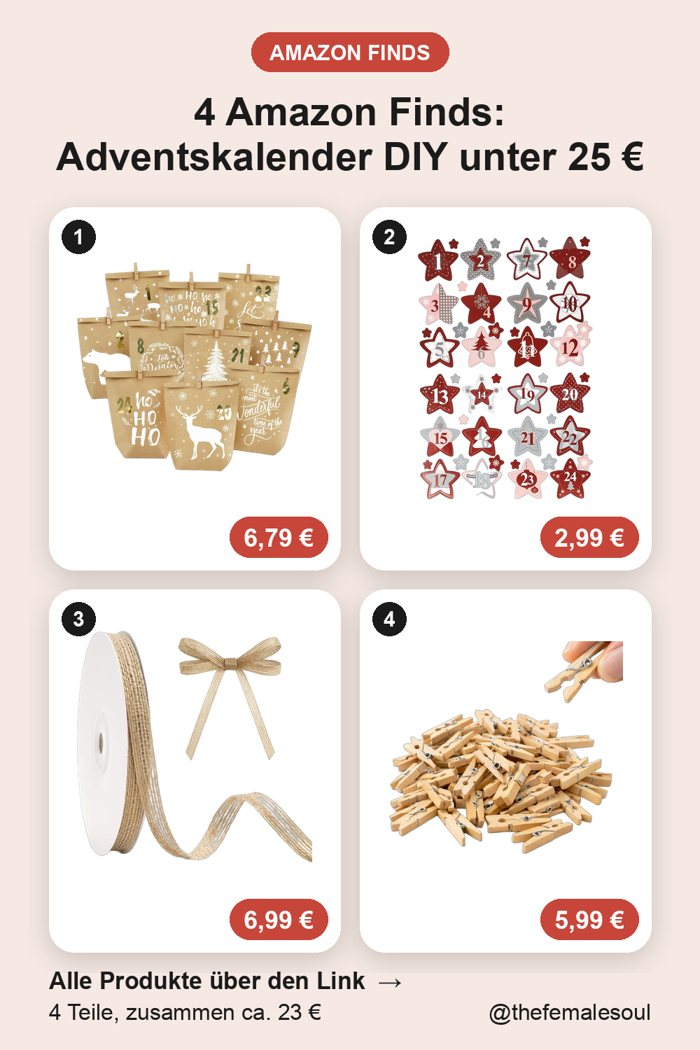
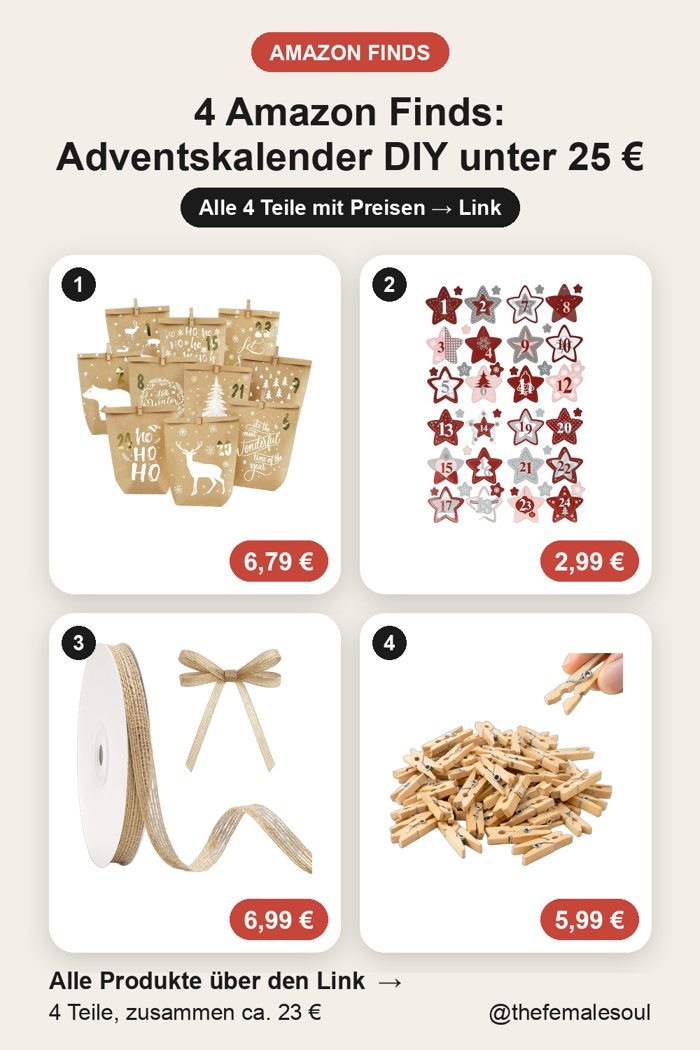
Listen 261023

Changed region(s): [[0.06, 0.1524, 0.93, 0.8533], [0.12, 0.701, 0.15, 0.7314]]

diff --git a/4-amazon-finds-adventskalender-diy-unter-25-euro.html b/4-amazon-finds-adventskalender-diy-unter-25-euro.html
@@ -1,10 +1,10 @@
 <!doctype html><html lang="de"><head><meta charset="utf-8"><meta name="viewport" content="width=device-width,initial-scale=1">
-<title>Adventskalender DIY: Bastelideen unter 25 € Amazon Finds · the femalesoul</title><meta name="description" content="Adventskalender DIY: Bastelideen unter 25 € Amazon Finds">
+<title>Adventskalender DIY: Zum Basteln unter 25 € Amazon Finds · the femalesoul</title><meta name="description" content="Adventskalender DIY: Zum Basteln unter 25 € Amazon Finds">
 <meta name="p:domain_verify" content="56e387f7f84581808b64b9bf8817f874"/>
 <meta property="og:site_name" content="the femalesoul"><meta property="og:locale" content="de_DE"><meta property="og:type" content="product">
-<meta property="og:title" content="Adventskalender DIY: Bastelideen unter 25 € Amazon Finds"><meta property="og:description" content="Adventskalender DIY: Bastelideen unter 25 € Amazon Finds"><meta property="og:url" content="https://thefemalesoul.github.io/4-amazon-finds-adventskalender-diy-unter-25-euro.html"><meta property="og:image" content="https://thefemalesoul.github.io/bilder/4-amazon-finds-adventskalender-diy-unter-25-euro.jpg">
+<meta property="og:title" content="Adventskalender DIY: Zum Basteln unter 25 € Amazon Finds"><meta property="og:description" content="Adventskalender DIY: Zum Basteln unter 25 € Amazon Finds"><meta property="og:url" content="https://thefemalesoul.github.io/4-amazon-finds-adventskalender-diy-unter-25-euro.html"><meta property="og:image" content="https://thefemalesoul.github.io/bilder/4-amazon-finds-adventskalender-diy-unter-25-euro.jpg">
 <meta property="article:author" content="Valeria Schöck"><meta name="pinterest:rich_pin" content="true">
-<meta property="product:price:amount" content="2.99"><meta property="product:price:currency" content="EUR"><meta property="product:availability" content="in stock"><meta property="og:price:amount" content="2.99"><meta property="og:price:currency" content="EUR"><script type="application/ld+json">{"@context": "https://schema.org", "@type": "ItemList", "name": "Adventskalender DIY: Bastelideen unter 25 € Amazon Finds", "url": "https://thefemalesoul.github.io/4-amazon-finds-adventskalender-diy-unter-25-euro.html", "numberOfItems": 4, "itemListElement": [{"@type": "ListItem", "position": 1, "item": {"@type": "Product", "name": "Adventskalender Tüten zum Befüllen, Weihnachtskalender Papiertüten zum Selber Ba", "image": "https://m.media-amazon.com/images/I/71hz8TgK5AL._AC_SL1500_.jpg", "offers": {"@type": "Offer", "price": "6.79", "priceCurrency": "EUR", "availability": "https://schema.org/InStock", "url": "https://www.amazon.de/dp/B09QC965M1?tag=thefemalesoul-21"}, "aggregateRating": {"@type": "AggregateRating", "ratingValue": "4.6", "reviewCount": "354"}}}, {"@type": "ListItem", "position": 2, "item": {"@type": "Product", "name": "Oblique-Unique® Adventskalender Sticker Zahlen 1–24 – Weihnachtsaufkleber rund 5", "image": "https://m.media-amazon.com/images/I/615lrg9BDzS._AC_SL1000_.jpg", "offers": {"@type": "Offer", "price": "2.99", "priceCurrency": "EUR", "availability": "https://schema.org/InStock", "url": "https://www.amazon.de/dp/B0931191NN?tag=thefemalesoul-21"}, "aggregateRating": {"@type": "AggregateRating", "ratingValue": "4.6", "reviewCount": "1177"}}}, {"@type": "ListItem", "position": 3, "item": {"@type": "Product", "name": "jijAcraft 10mm Juteband Schmal Rustikal: 18m Natur Jute Geschenkband, Burlap Vin", "image": "https://m.media-amazon.com/images/I/71W90COir5L._AC_SL1500_.jpg", "offers": {"@type": "Offer", "price": "6.99", "priceCurrency": "EUR", "availability": "https://schema.org/InStock", "url": "https://www.amazon.de/dp/B0G4T71N4Z?tag=thefemalesoul-21"}, "aggregateRating": {"@type": "AggregateRating", "ratingValue": "4.7", "reviewCount": "2909"}}}, {"@type": "ListItem", "position": 4, "item": {"@type": "Product", "name": "100 Stück Mini Wäscheklammern - Nachhaltiges Holz - Miniklammern - Kleine Holzkl", "image": "https://m.media-amazon.com/images/I/61qRiaQ9jzL._AC_SL1024_.jpg", "offers": {"@type": "Offer", "price": "5.99", "priceCurrency": "EUR", "availability": "https://schema.org/InStock", "url": "https://www.amazon.de/dp/B07ZWJSV32?tag=thefemalesoul-21"}, "aggregateRating": {"@type": "AggregateRating", "ratingValue": "4.0", "reviewCount": "2569"}}}]}</script><link href="fonts/fonts.css" rel="stylesheet">
+<meta property="product:price:amount" content="2.99"><meta property="product:price:currency" content="EUR"><meta property="product:availability" content="in stock"><meta property="og:price:amount" content="2.99"><meta property="og:price:currency" content="EUR"><script type="application/ld+json">{"@context": "https://schema.org", "@type": "ItemList", "name": "Adventskalender DIY: Zum Basteln unter 25 € Amazon Finds", "url": "https://thefemalesoul.github.io/4-amazon-finds-adventskalender-diy-unter-25-euro.html", "numberOfItems": 4, "itemListElement": [{"@type": "ListItem", "position": 1, "item": {"@type": "Product", "name": "Adventskalender Tüten zum Befüllen, Weihnachtskalender Papiertüten zum Selber Ba", "image": "https://m.media-amazon.com/images/I/71hz8TgK5AL._AC_SL1500_.jpg", "offers": {"@type": "Offer", "price": "6.79", "priceCurrency": "EUR", "availability": "https://schema.org/InStock", "url": "https://www.amazon.de/dp/B09QC965M1?tag=thefemalesoul-21"}, "aggregateRating": {"@type": "AggregateRating", "ratingValue": "4.6", "reviewCount": "354"}}}, {"@type": "ListItem", "position": 2, "item": {"@type": "Product", "name": "Oblique-Unique® Adventskalender Sticker Zahlen 1–24 – Weihnachtsaufkleber rund 5", "image": "https://m.media-amazon.com/images/I/615lrg9BDzS._AC_SL1000_.jpg", "offers": {"@type": "Offer", "price": "2.99", "priceCurrency": "EUR", "availability": "https://schema.org/InStock", "url": "https://www.amazon.de/dp/B0931191NN?tag=thefemalesoul-21"}, "aggregateRating": {"@type": "AggregateRating", "ratingValue": "4.6", "reviewCount": "1177"}}}, {"@type": "ListItem", "position": 3, "item": {"@type": "Product", "name": "jijAcraft 10mm Juteband Schmal Rustikal: 18m Natur Jute Geschenkband, Burlap Vin", "image": "https://m.media-amazon.com/images/I/71W90COir5L._AC_SL1500_.jpg", "offers": {"@type": "Offer", "price": "6.99", "priceCurrency": "EUR", "availability": "https://schema.org/InStock", "url": "https://www.amazon.de/dp/B0G4T71N4Z?tag=thefemalesoul-21"}, "aggregateRating": {"@type": "AggregateRating", "ratingValue": "4.7", "reviewCount": "2909"}}}, {"@type": "ListItem", "position": 4, "item": {"@type": "Product", "name": "100 Stück Mini Wäscheklammern - Nachhaltiges Holz - Miniklammern - Kleine Holzkl", "image": "https://m.media-amazon.com/images/I/61qRiaQ9jzL._AC_SL1024_.jpg", "offers": {"@type": "Offer", "price": "5.99", "priceCurrency": "EUR", "availability": "https://schema.org/InStock", "url": "https://www.amazon.de/dp/B07ZWJSV32?tag=thefemalesoul-21"}, "aggregateRating": {"@type": "AggregateRating", "ratingValue": "4.0", "reviewCount": "2569"}}}]}</script><link href="fonts/fonts.css" rel="stylesheet">
 <style>
 :root{--bg:#F6F1EA;--card:#FFFFFF;--ink:#221F1C;--muted:#6F675F;--akzent:#C8453A;--akzent2:#EADFD3}
 *{box-sizing:border-box}body{margin:0;background:var(--bg);color:var(--ink);font-family:'Inter',system-ui,-apple-system,sans-serif;line-height:1.55}
@@ -66,6 +66,6 @@ footer a{color:var(--muted)}
 </style></head><body><div class="wrap">
 <header><div style="display:flex;justify-content:space-between;align-items:center;flex-wrap:wrap;gap:10px"><a class="brand" href="index.html">the <span>femalesoul</span></a>
 <nav><a href="index.html">Alle Listen</a><a href="https://de.pinterest.com/Thefemalesoul/" target="_blank" rel="noopener">Pinterest</a><a href="https://www.amazon.de/shop/the.femalesoul" target="_blank" rel="noopener">Amazon-Shop</a><a href="impressum.html">Impressum</a></nav></div></header>
-<section class="hero2"><div><span class="label">AMAZON FINDS</span><h1>4 Amazon Finds: Adventskalender DIY unter 25 €</h1><p class="intro">Mit diesen vier Teilen bastelst du deinen Adventskalender DIY für zusammen 22,76 €, und die Füllung suchst du danach aus, was deine Kinder oder dein Partner mögen.</p><div class="meta"><span><b>4 Produkte</b></span><span>zusammen ca. <b>23 €</b></span><span>Board: <b>Adventskalender Ideen</b></span></div><p class="anzeige">Anzeige | Affiliate-Links</p></div><div><img src="bilder/4-amazon-finds-adventskalender-diy-unter-25-euro.jpg" alt="4 Amazon Finds: Adventskalender DIY unter 25 €"></div></section>
-<h2>Die Produkte</h2><section class="grid"><div class="card"><img src="https://m.media-amazon.com/images/I/71hz8TgK5AL._AC_SL1500_.jpg" alt="Adventskalender Tüten zum Befüllen, Weihnachtskalender Papiertüten zum Selber Ba" loading="lazy"><div class="b"><div class="n">Nr. 1</div><h3>Adventskalender Tüten</h3><div style="font-size:12px;color:var(--muted)">Adventskalender Tüten zum Befüllen, Weihnachtskalender Papiertüten zum</div><div class="stars">★★★★★ <small>4,6 · 354 Bewertungen</small></div><p>Die 24 bedruckten Kraftpapiertüten mit 16 x 6 x 22 cm kommen schon mit goldenen Zahlen Stickern, Holzklammern und einer Schnur, sodass dein Kalender fast fertig ist, bevor du anfängst.</p><div class="row"><span class="preis">6,79€</span><a class="btn" href="https://www.amazon.de/dp/B09QC965M1?tag=thefemalesoul-21" target="_blank" rel="nofollow sponsored noopener">Bei Amazon ansehen →</a></div></div></div><div class="card"><img src="https://m.media-amazon.com/images/I/615lrg9BDzS._AC_SL1000_.jpg" alt="Oblique-Unique® Adventskalender Sticker Zahlen 1–24 – Weihnachtsaufkleber rund 5" loading="lazy"><div class="b"><div class="n">Nr. 2</div><h3>Zahlen Sticker</h3><div style="font-size:12px;color:var(--muted)">Oblique-Unique® Adventskalender Sticker Zahlen 1–24 – Weihnachtsaufkle</div><div class="stars">★★★★★ <small>4,6 · 1.177 Bewertungen</small></div><p>Wenn du die Tüten lieber mit roten Sternen nummerierst, halten die 24 runden Sticker mit 5 cm Durchmesser auf Papier, Karton und Glas.</p><div class="row"><span class="preis">2,99€</span><a class="btn" href="https://www.amazon.de/dp/B0931191NN?tag=thefemalesoul-21" target="_blank" rel="nofollow sponsored noopener">Bei Amazon ansehen →</a></div></div></div><div class="card"><img src="https://m.media-amazon.com/images/I/71W90COir5L._AC_SL1500_.jpg" alt="jijAcraft 10mm Juteband Schmal Rustikal: 18m Natur Jute Geschenkband, Burlap Vin" loading="lazy"><div class="b"><div class="n">Nr. 3</div><h3>Juteband</h3><div style="font-size:12px;color:var(--muted)">jijAcraft 10mm Juteband Schmal Rustikal: 18m Natur Jute Geschenkband, </div><div class="stars">★★★★★ <small>4,7 · 2.909 Bewertungen</small></div><p>Mit 18 m Jute in 10 mm Breite bindest du jede Tüte zu und hast danach noch genug für die Schleifen an den Weihnachtsgeschenken.</p><div class="row"><span class="preis">6,99€</span><a class="btn" href="https://www.amazon.de/dp/B0G4T71N4Z?tag=thefemalesoul-21" target="_blank" rel="nofollow sponsored noopener">Bei Amazon ansehen →</a></div></div></div><div class="card"><img src="https://m.media-amazon.com/images/I/61qRiaQ9jzL._AC_SL1024_.jpg" alt="100 Stück Mini Wäscheklammern - Nachhaltiges Holz - Miniklammern - Kleine Holzkl" loading="lazy"><div class="b"><div class="n">Nr. 4</div><h3>Mini Holzklammern</h3><div style="font-size:12px;color:var(--muted)">100 Stück Mini Wäscheklammern - Nachhaltiges Holz - Miniklammern - Kle</div><div class="stars">★★★★☆ <small>4,0 · 2.569 Bewertungen</small></div><p>Die 100 Klammern mit 25 mm verschließen die Tüten, und was übrig bleibt, hält nach Weihnachten eure Fotos an der Schnur.</p><div class="row"><span class="preis">5,99€</span><a class="btn" href="https://www.amazon.de/dp/B07ZWJSV32?tag=thefemalesoul-21" target="_blank" rel="nofollow sponsored noopener">Bei Amazon ansehen →</a></div></div></div></section><section class="vorstellung" style="grid-template-columns:1fr"><div class="vk"><img class="portrait" src="media/valeria.jpg" alt="Valeria"><div><h2 style="margin-top:0">Hallo, ich bin Valeria</h2><p class="intro">Ich bin Mama von zwei Kindern und verdiene mit genau solchen Listen nebenbei Geld. Ich suche Dinge heraus, die unseren Alltag schöner und leichter machen, und teile sie hier als fertige Ideen, damit du nicht stundenlang suchen musst. Wie ich das vom Handy aus aufgebaut habe, zeige ich dir weiter unten.</p><div class="social"><a href="https://www.instagram.com/the.femalesoul/" target="_blank" rel="noopener">Instagram @the.femalesoul</a><a href="https://www.tiktok.com/@dailylifeoflera" target="_blank" rel="noopener">TikTok @dailylifeoflera</a><a href="https://de.pinterest.com/Thefemalesoul/" target="_blank" rel="noopener">Pinterest @thefemalesoul</a><a href="https://www.amazon.de/shop/the.femalesoul" target="_blank" rel="noopener">Mein Amazon-Shop</a><a href="https://www.the-femalesoul.de/start/" target="_blank" rel="noopener">Mein Programm</a></div></div></div></section><h2>Diese Listen könnten dir auch gefallen</h2><p class="sub">Passend zu dieser Idee.</p><section class="liste"><a href="adventskalender-befuellen-4-amazon-finds-unter-30-euro.html"><img src="bilder/adventskalender-befuellen-4-amazon-finds-unter-30-euro.jpg" alt="Adventskalender befüllen: 4 Amazon Finds unter 30 €" loading="lazy"><div class="t">Adventskalender befüllen: 4 Amazon Finds unter 30 €</div></a><a href="adventskalender-ideen-4-amazon-finds-unter-20-euro.html"><img src="bilder/adventskalender-ideen-4-amazon-finds-unter-20-euro.jpg" alt="Adventskalender Ideen: 4 Amazon Finds unter 20 €" loading="lazy"><div class="t">Adventskalender Ideen: 4 Amazon Finds unter 20 €</div></a><a href="adventskalender-inhalt-4-amazon-finds-unter-20-euro.html"><img src="bilder/adventskalender-inhalt-4-amazon-finds-unter-20-euro.jpg" alt="Adventskalender Inhalt: 4 Amazon Finds unter 20 €" loading="lazy"><div class="t">Adventskalender Inhalt: 4 Amazon Finds unter 20 €</div></a></section><h2>Weitere Rubriken</h2><p class="sub">Zum Blättern: Wohnen, Kinder, Küche, Geschenke und die Saison.</p><div class="rubriken"><a class="rubrik" href="bereich-herbstdeko-ideen.html"><img src="bilder/bereiche/herbstdeko-ideen.jpg" alt="Herbstdeko Ideen" loading="lazy"><div class="rt"><h3>Herbstdeko Ideen</h3><p>Herbstdeko für Wohnzimmer, Eingangsbereich, Fensterbank und draußen: Kränze, Kürbisse, Lichterketten, Blumenkübel und moderne Herbstdeko zum Nachmachen.</p></div></a><a class="rubrik" href="bereich-halloween-deko-ideen.html"><img src="bilder/bereiche/halloween-deko-ideen.jpg" alt="Halloween Deko Ideen" loading="lazy"><div class="rt"><h3>Halloween Deko Ideen</h3><p>Halloween Deko für Haus, Fenster, Tür und Kinderparty: Fledermäuse, Kürbisse, Gespenster, Lichter und gruselige Bastelideen für die ganze Familie.</p></div></a><a class="rubrik" href="bereich-basteln-mit-kindern.html"><img src="bilder/bereiche/basteln-mit-kindern.jpg" alt="Basteln mit Kindern" loading="lazy"><div class="rt"><h3>Basteln mit Kindern</h3><p>Bastelideen für Kinder nach Jahreszeit: Herbst, Laternen, Halloween, Weihnachten und Ostern, für Zuhause, Kita und Krippe, mit einfachen Materialien.</p></div></a><a class="rubrik" href="bereich-weihnachtsdeko-ideen.html"><img src="bilder/bereiche/weihnachtsdeko-ideen.jpg" alt="Weihnachtsdeko Ideen" loading="lazy"><div class="rt"><h3>Weihnachtsdeko Ideen</h3><p>Weihnachtsdeko Ideen für Wohnzimmer, Tisch, Fenster und Weihnachtsbaum: Kugeln, Lichter, Adventskranz, skandinavisch und klassisch.</p></div></a><a class="rubrik" href="bereich-weihnachtsgeschenke-ideen.html"><img src="bilder/bereiche/weihnachtsgeschenke-ideen.jpg" alt="Weihnachtsgeschenke Ideen" loading="lazy"><div class="rt"><h3>Weihnachtsgeschenke Ideen</h3><p>Weihnachtsgeschenke Ideen für Familie, Freundin, Mama, Papa, Kinder und Kollegen, von kleinen Aufmerksamkeiten bis zum großen Wunsch.</p></div></a><a class="rubrik" href="bereich-geschenkideen-fuer-frauen.html"><img src="bilder/bereiche/geschenkideen-fuer-frauen.jpg" alt="Geschenkideen für Frauen" loading="lazy"><div class="rt"><h3>Geschenkideen für Frauen</h3><p>Geschenkideen für Frauen zu Geburtstag, Weihnachten, Muttertag oder einfach so: Wellness, Wohnen, Schmuck, Bücher und kleine Freuden.</p></div></a><a class="rubrik" href="bereich-geschenkideen-fuer-maenner.html"><img src="bilder/bereiche/geschenkideen-fuer-maenner.jpg" alt="Geschenkideen für Männer" loading="lazy"><div class="rt"><h3>Geschenkideen für Männer</h3><p>Geschenkideen für Männer, Papa, Freund und Ehemann: praktisch, witzig, hochwertig, zu Geburtstag und Weihnachten.</p></div></a><a class="rubrik" href="bereich-geschenkideen-fuer-kinder.html"><img src="bilder/bereiche/geschenkideen-fuer-kinder.jpg" alt="Geschenkideen für Kinder" loading="lazy"><div class="rt"><h3>Geschenkideen für Kinder</h3><p>Geschenkideen für Kinder nach Alter: Spielzeug, Bücher, Kreatives und Lernspiele für Geburtstag, Weihnachten, Einschulung und Nikolaus.</p></div></a><a class="rubrik" href="bereich-wichtelgeschenke-unter-10-euro.html"><img src="bilder/bereiche/wichtelgeschenke-unter-10-euro.jpg" alt="Wichtelgeschenke unter 10 Euro" loading="lazy"><div class="rt"><h3>Wichtelgeschenke unter 10 Euro</h3><p>Wichtelgeschenke und kleine Geschenke unter 10 Euro für Kollegen, Freunde und Familie: witzig, nützlich, schön verpackt.</p></div></a><a class="rubrik" href="bereich-wohnzimmer-ideen.html"><img src="bilder/bereiche/wohnzimmer-ideen.jpg" alt="Wohnzimmer Ideen" loading="lazy"><div class="rt"><h3>Wohnzimmer Ideen</h3><p>Wohnzimmer Ideen zum Einrichten und Dekorieren: gemütlich, modern, skandinavisch, mit Lampen, Kissen, Regalen und Deko, die den Raum verändert.</p></div></a><a class="rubrik" href="bereich-schlafzimmer-ideen.html"><img src="bilder/bereiche/schlafzimmer-ideen.jpg" alt="Schlafzimmer Ideen" loading="lazy"><div class="rt"><h3>Schlafzimmer Ideen</h3><p>Schlafzimmer Ideen für mehr Ruhe und Gemütlichkeit: Bettwäsche, Licht, Aufbewahrung, Deko und kleine Veränderungen mit großer Wirkung.</p></div></a><a class="rubrik" href="bereich-kinderzimmer-ideen.html"><img src="bilder/bereiche/kinderzimmer-ideen.jpg" alt="Kinderzimmer Ideen" loading="lazy"><div class="rt"><h3>Kinderzimmer Ideen</h3><p>Kinderzimmer Ideen für Baby, Kleinkind und Schulkind: Einrichten, Aufbewahrung, Deko, Lichter und Ordnung, die im Alltag hält.</p></div></a><a class="rubrik" href="bereich-kueche-ideen-und-helfer.html"><img src="bilder/bereiche/kueche-ideen-und-helfer.jpg" alt="Küche Ideen und Helfer" loading="lazy"><div class="rt"><h3>Küche Ideen und Helfer</h3><p>Küche Ideen: Küchenhelfer, Aufbewahrung, Ordnung, schöne Tischdeko und Dinge, die das Kochen mit Familie leichter machen.</p></div></a><a class="rubrik" href="bereich-mama-alltag-und-organisation.html"><img src="bilder/bereiche/mama-alltag-und-organisation.jpg" alt="Mama Alltag und Organisation" loading="lazy"><div class="rt"><h3>Mama Alltag und Organisation</h3><p>Ideen für Mamas: Familienalltag organisieren, Planer, Routinen, Selbstfürsorge und kleine Helfer für mehr Ruhe im Alltag.</p></div></a><a class="rubrik" href="bereich-amazon-finds-deutschland.html"><img src="bilder/bereiche/amazon-finds-deutschland.jpg" alt="Amazon Finds Deutschland" loading="lazy"><div class="rt"><h3>Amazon Finds Deutschland</h3><p>Amazon Finds Deutschland: die besten Amazon Funde für Zuhause, Deko, Küche, Kinder und Geschenke. Amazon Must-haves, Amazon Favoriten und günstige Wohnideen, regelmäßig neu.</p></div></a><a class="rubrik" href="bereich-amazon-must-haves-unter-30-euro.html"><img src="bilder/bereiche/amazon-must-haves-unter-30-euro.jpg" alt="Amazon Must-haves unter 30 Euro" loading="lazy"><div class="rt"><h3>Amazon Must-haves unter 30 Euro</h3><p>Amazon Must-haves unter 30 Euro: günstige Amazon Finds für Haushalt, Deko, Ordnung, Küche und kleine Geschenke, die sich wirklich lohnen.</p></div></a><a class="rubrik" href="bereich-kinder-outfits-herbst.html"><img src="bilder/bereiche/kinder-outfits-herbst.jpg" alt="Kinder Outfits Herbst" loading="lazy"><div class="rt"><h3>Kinder Outfits Herbst</h3><p>Kinder Outfits für den Herbst: Strickjacken, Regenjacken, Matschhosen, Mützen und Schuhe für Kita, Schule und Spielplatz. Kindermode Ideen, Herbstkleidung Kinder, Amazon Finds Kinder.</p></div></a></div><section class="cta"><div><h2>Nebenbei Geld verdienen als Mama, anfangs ganz ohne dein Gesicht zu zeigen</h2><p>Schöne Dinge finden, als Listen teilen und Provision bekommen, wenn jemand darüber kauft. Das ist mein Modell, und es läuft in den Stunden, in denen die Kinder schlafen. Ich habe damit über ein Programm angefangen, das mir Schritt für Schritt gezeigt hat, wie Pinterest, Amazon und Instagram zusammenspielen. Im kostenlosen Gespräch erkläre ich dir, wie es funktioniert, was es kostet und ob es zu deiner Situation passt. Kein Druck, keine Versprechen über Summen.</p><small>Anzeige | Ich vermittle das Programm als Vertriebspartnerin. Anbieter ist BKM Marketing FZCO.</small></div><a class="btn" href="https://www.the-femalesoul.de/start/" target="_blank" rel="noopener">Kostenloses Gespräch sichern →</a></section><footer>Anzeige | Diese Seite enthält Amazon-Partnerlinks. Als Amazon-Partnerin verdiene ich an qualifizierten Käufen, für dich ändert sich der Preis nicht. Preise Stand 23.10.2026, aktuelle Preise bei Amazon.
+<section class="hero2"><div><span class="label">AMAZON FINDS</span><h1>4 Amazon Finds: Adventskalender DIY unter 25 €</h1><p class="intro">Mit diesen vier Teilen bastelst du einen Adventskalender DIY für 24 Tage. Zusammen kosten sie unter 25 €.</p><div class="meta"><span><b>4 Produkte</b></span><span>zusammen ca. <b>23 €</b></span><span>Board: <b>Adventskalender Ideen</b></span></div><p class="anzeige">Anzeige | Affiliate-Links</p></div><div><img src="bilder/4-amazon-finds-adventskalender-diy-unter-25-euro.jpg" alt="4 Amazon Finds: Adventskalender DIY unter 25 €"></div></section>
+<h2>Die Produkte</h2><section class="grid"><div class="card"><img src="https://m.media-amazon.com/images/I/71hz8TgK5AL._AC_SL1500_.jpg" alt="Adventskalender Tüten zum Befüllen, Weihnachtskalender Papiertüten zum Selber Ba" loading="lazy"><div class="b"><div class="n">Nr. 1</div><h3>Kraftpapiertüten</h3><div style="font-size:12px;color:var(--muted)">Adventskalender Tüten zum Befüllen, Weihnachtskalender Papiertüten zum</div><div class="stars">★★★★★ <small>4,6 · 354 Bewertungen</small></div><p>Die 24 bedruckten Tüten sind 16 x 6 x 22 cm groß, und weil goldene Zahlenaufkleber und Holzklammern schon dabei sind, steht damit das Gerüst des ganzen Kalenders.</p><div class="row"><span class="preis">6,79€</span><a class="btn" href="https://www.amazon.de/dp/B09QC965M1?tag=thefemalesoul-21" target="_blank" rel="nofollow sponsored noopener">Bei Amazon ansehen →</a></div></div></div><div class="card"><img src="https://m.media-amazon.com/images/I/615lrg9BDzS._AC_SL1000_.jpg" alt="Oblique-Unique® Adventskalender Sticker Zahlen 1–24 – Weihnachtsaufkleber rund 5" loading="lazy"><div class="b"><div class="n">Nr. 2</div><h3>Zahlen Sticker</h3><div style="font-size:12px;color:var(--muted)">Oblique-Unique® Adventskalender Sticker Zahlen 1–24 – Weihnachtsaufkle</div><div class="stars">★★★★★ <small>4,6 · 1.177 Bewertungen</small></div><p>Die runden Aufkleber mit 5 cm Durchmesser zeigen die Zahlen 1 bis 24 mit roten Sternen und haften auf Tüten, Karton und Glas, falls dir die goldenen Zahlen zu schlicht sind.</p><div class="row"><span class="preis">2,99€</span><a class="btn" href="https://www.amazon.de/dp/B0931191NN?tag=thefemalesoul-21" target="_blank" rel="nofollow sponsored noopener">Bei Amazon ansehen →</a></div></div></div><div class="card"><img src="https://m.media-amazon.com/images/I/71W90COir5L._AC_SL1500_.jpg" alt="jijAcraft 10mm Juteband Schmal Rustikal: 18m Natur Jute Geschenkband, Burlap Vin" loading="lazy"><div class="b"><div class="n">Nr. 3</div><h3>Juteband</h3><div style="font-size:12px;color:var(--muted)">jijAcraft 10mm Juteband Schmal Rustikal: 18m Natur Jute Geschenkband, </div><div class="stars">★★★★★ <small>4,7 · 2.909 Bewertungen</small></div><p>Mit 18 m Länge spannst du die Tüten als Girlande auf und bindest noch Schleifen dazu, und das Band hat 4,7 Sterne bei 2.909 Bewertungen.</p><div class="row"><span class="preis">6,99€</span><a class="btn" href="https://www.amazon.de/dp/B0G4T71N4Z?tag=thefemalesoul-21" target="_blank" rel="nofollow sponsored noopener">Bei Amazon ansehen →</a></div></div></div><div class="card"><img src="https://m.media-amazon.com/images/I/61qRiaQ9jzL._AC_SL1024_.jpg" alt="100 Stück Mini Wäscheklammern - Nachhaltiges Holz - Miniklammern - Kleine Holzkl" loading="lazy"><div class="b"><div class="n">Nr. 4</div><h3>Mini Holzklammern</h3><div style="font-size:12px;color:var(--muted)">100 Stück Mini Wäscheklammern - Nachhaltiges Holz - Miniklammern - Kle</div><div class="stars">★★★★☆ <small>4,0 · 2.569 Bewertungen</small></div><p>Die 100 Klammern mit 25 mm halten die Tüten am Band, und was übrig bleibt, nutzt ihr später für Fotos.</p><div class="row"><span class="preis">5,99€</span><a class="btn" href="https://www.amazon.de/dp/B07ZWJSV32?tag=thefemalesoul-21" target="_blank" rel="nofollow sponsored noopener">Bei Amazon ansehen →</a></div></div></div></section><section class="vorstellung" style="grid-template-columns:1fr"><div class="vk"><img class="portrait" src="media/valeria.jpg" alt="Valeria"><div><h2 style="margin-top:0">Hallo, ich bin Valeria</h2><p class="intro">Ich bin Mama von zwei Kindern und verdiene mit genau solchen Listen nebenbei Geld. Ich suche Dinge heraus, die unseren Alltag schöner und leichter machen, und teile sie hier als fertige Ideen, damit du nicht stundenlang suchen musst. Wie ich das vom Handy aus aufgebaut habe, zeige ich dir weiter unten.</p><div class="social"><a href="https://www.instagram.com/the.femalesoul/" target="_blank" rel="noopener">Instagram @the.femalesoul</a><a href="https://www.tiktok.com/@dailylifeoflera" target="_blank" rel="noopener">TikTok @dailylifeoflera</a><a href="https://de.pinterest.com/Thefemalesoul/" target="_blank" rel="noopener">Pinterest @thefemalesoul</a><a href="https://www.amazon.de/shop/the.femalesoul" target="_blank" rel="noopener">Mein Amazon-Shop</a><a href="https://www.the-femalesoul.de/start/" target="_blank" rel="noopener">Mein Programm</a></div></div></div></section><h2>Diese Listen könnten dir auch gefallen</h2><p class="sub">Passend zu dieser Idee.</p><section class="liste"><a href="adventskalender-befuellen-4-amazon-finds-unter-30-euro.html"><img src="bilder/adventskalender-befuellen-4-amazon-finds-unter-30-euro.jpg" alt="Adventskalender befüllen: 4 Amazon Finds unter 30 €" loading="lazy"><div class="t">Adventskalender befüllen: 4 Amazon Finds unter 30 €</div></a><a href="adventskalender-ideen-4-amazon-finds-unter-20-euro.html"><img src="bilder/adventskalender-ideen-4-amazon-finds-unter-20-euro.jpg" alt="Adventskalender Ideen: 4 Amazon Finds unter 20 €" loading="lazy"><div class="t">Adventskalender Ideen: 4 Amazon Finds unter 20 €</div></a><a href="adventskalender-inhalt-4-amazon-finds-unter-20-euro.html"><img src="bilder/adventskalender-inhalt-4-amazon-finds-unter-20-euro.jpg" alt="Adventskalender Inhalt: 4 Amazon Finds unter 20 €" loading="lazy"><div class="t">Adventskalender Inhalt: 4 Amazon Finds unter 20 €</div></a></section><h2>Weitere Rubriken</h2><p class="sub">Zum Blättern: Wohnen, Kinder, Küche, Geschenke und die Saison.</p><div class="rubriken"><a class="rubrik" href="bereich-herbstdeko-ideen.html"><img src="bilder/bereiche/herbstdeko-ideen.jpg" alt="Herbstdeko Ideen" loading="lazy"><div class="rt"><h3>Herbstdeko Ideen</h3><p>Herbstdeko für Wohnzimmer, Eingangsbereich, Fensterbank und draußen: Kränze, Kürbisse, Lichterketten, Blumenkübel und moderne Herbstdeko zum Nachmachen.</p></div></a><a class="rubrik" href="bereich-halloween-deko-ideen.html"><img src="bilder/bereiche/halloween-deko-ideen.jpg" alt="Halloween Deko Ideen" loading="lazy"><div class="rt"><h3>Halloween Deko Ideen</h3><p>Halloween Deko für Haus, Fenster, Tür und Kinderparty: Fledermäuse, Kürbisse, Gespenster, Lichter und gruselige Bastelideen für die ganze Familie.</p></div></a><a class="rubrik" href="bereich-basteln-mit-kindern.html"><img src="bilder/bereiche/basteln-mit-kindern.jpg" alt="Basteln mit Kindern" loading="lazy"><div class="rt"><h3>Basteln mit Kindern</h3><p>Bastelideen für Kinder nach Jahreszeit: Herbst, Laternen, Halloween, Weihnachten und Ostern, für Zuhause, Kita und Krippe, mit einfachen Materialien.</p></div></a><a class="rubrik" href="bereich-weihnachtsdeko-ideen.html"><img src="bilder/bereiche/weihnachtsdeko-ideen.jpg" alt="Weihnachtsdeko Ideen" loading="lazy"><div class="rt"><h3>Weihnachtsdeko Ideen</h3><p>Weihnachtsdeko Ideen für Wohnzimmer, Tisch, Fenster und Weihnachtsbaum: Kugeln, Lichter, Adventskranz, skandinavisch und klassisch.</p></div></a><a class="rubrik" href="bereich-weihnachtsgeschenke-ideen.html"><img src="bilder/bereiche/weihnachtsgeschenke-ideen.jpg" alt="Weihnachtsgeschenke Ideen" loading="lazy"><div class="rt"><h3>Weihnachtsgeschenke Ideen</h3><p>Weihnachtsgeschenke Ideen für Familie, Freundin, Mama, Papa, Kinder und Kollegen, von kleinen Aufmerksamkeiten bis zum großen Wunsch.</p></div></a><a class="rubrik" href="bereich-geschenkideen-fuer-frauen.html"><img src="bilder/bereiche/geschenkideen-fuer-frauen.jpg" alt="Geschenkideen für Frauen" loading="lazy"><div class="rt"><h3>Geschenkideen für Frauen</h3><p>Geschenkideen für Frauen zu Geburtstag, Weihnachten, Muttertag oder einfach so: Wellness, Wohnen, Schmuck, Bücher und kleine Freuden.</p></div></a><a class="rubrik" href="bereich-geschenkideen-fuer-maenner.html"><img src="bilder/bereiche/geschenkideen-fuer-maenner.jpg" alt="Geschenkideen für Männer" loading="lazy"><div class="rt"><h3>Geschenkideen für Männer</h3><p>Geschenkideen für Männer, Papa, Freund und Ehemann: praktisch, witzig, hochwertig, zu Geburtstag und Weihnachten.</p></div></a><a class="rubrik" href="bereich-geschenkideen-fuer-kinder.html"><img src="bilder/bereiche/geschenkideen-fuer-kinder.jpg" alt="Geschenkideen für Kinder" loading="lazy"><div class="rt"><h3>Geschenkideen für Kinder</h3><p>Geschenkideen für Kinder nach Alter: Spielzeug, Bücher, Kreatives und Lernspiele für Geburtstag, Weihnachten, Einschulung und Nikolaus.</p></div></a><a class="rubrik" href="bereich-wichtelgeschenke-unter-10-euro.html"><img src="bilder/bereiche/wichtelgeschenke-unter-10-euro.jpg" alt="Wichtelgeschenke unter 10 Euro" loading="lazy"><div class="rt"><h3>Wichtelgeschenke unter 10 Euro</h3><p>Wichtelgeschenke und kleine Geschenke unter 10 Euro für Kollegen, Freunde und Familie: witzig, nützlich, schön verpackt.</p></div></a><a class="rubrik" href="bereich-wohnzimmer-ideen.html"><img src="bilder/bereiche/wohnzimmer-ideen.jpg" alt="Wohnzimmer Ideen" loading="lazy"><div class="rt"><h3>Wohnzimmer Ideen</h3><p>Wohnzimmer Ideen zum Einrichten und Dekorieren: gemütlich, modern, skandinavisch, mit Lampen, Kissen, Regalen und Deko, die den Raum verändert.</p></div></a><a class="rubrik" href="bereich-schlafzimmer-ideen.html"><img src="bilder/bereiche/schlafzimmer-ideen.jpg" alt="Schlafzimmer Ideen" loading="lazy"><div class="rt"><h3>Schlafzimmer Ideen</h3><p>Schlafzimmer Ideen für mehr Ruhe und Gemütlichkeit: Bettwäsche, Licht, Aufbewahrung, Deko und kleine Veränderungen mit großer Wirkung.</p></div></a><a class="rubrik" href="bereich-kinderzimmer-ideen.html"><img src="bilder/bereiche/kinderzimmer-ideen.jpg" alt="Kinderzimmer Ideen" loading="lazy"><div class="rt"><h3>Kinderzimmer Ideen</h3><p>Kinderzimmer Ideen für Baby, Kleinkind und Schulkind: Einrichten, Aufbewahrung, Deko, Lichter und Ordnung, die im Alltag hält.</p></div></a><a class="rubrik" href="bereich-kueche-ideen-und-helfer.html"><img src="bilder/bereiche/kueche-ideen-und-helfer.jpg" alt="Küche Ideen und Helfer" loading="lazy"><div class="rt"><h3>Küche Ideen und Helfer</h3><p>Küche Ideen: Küchenhelfer, Aufbewahrung, Ordnung, schöne Tischdeko und Dinge, die das Kochen mit Familie leichter machen.</p></div></a><a class="rubrik" href="bereich-mama-alltag-und-organisation.html"><img src="bilder/bereiche/mama-alltag-und-organisation.jpg" alt="Mama Alltag und Organisation" loading="lazy"><div class="rt"><h3>Mama Alltag und Organisation</h3><p>Ideen für Mamas: Familienalltag organisieren, Planer, Routinen, Selbstfürsorge und kleine Helfer für mehr Ruhe im Alltag.</p></div></a><a class="rubrik" href="bereich-amazon-finds-deutschland.html"><img src="bilder/bereiche/amazon-finds-deutschland.jpg" alt="Amazon Finds Deutschland" loading="lazy"><div class="rt"><h3>Amazon Finds Deutschland</h3><p>Amazon Finds Deutschland: die besten Amazon Funde für Zuhause, Deko, Küche, Kinder und Geschenke. Amazon Must-haves, Amazon Favoriten und günstige Wohnideen, regelmäßig neu.</p></div></a><a class="rubrik" href="bereich-amazon-must-haves-unter-30-euro.html"><img src="bilder/bereiche/amazon-must-haves-unter-30-euro.jpg" alt="Amazon Must-haves unter 30 Euro" loading="lazy"><div class="rt"><h3>Amazon Must-haves unter 30 Euro</h3><p>Amazon Must-haves unter 30 Euro: günstige Amazon Finds für Haushalt, Deko, Ordnung, Küche und kleine Geschenke, die sich wirklich lohnen.</p></div></a><a class="rubrik" href="bereich-kinder-outfits-herbst.html"><img src="bilder/bereiche/kinder-outfits-herbst.jpg" alt="Kinder Outfits Herbst" loading="lazy"><div class="rt"><h3>Kinder Outfits Herbst</h3><p>Kinder Outfits für den Herbst: Strickjacken, Regenjacken, Matschhosen, Mützen und Schuhe für Kita, Schule und Spielplatz. Kindermode Ideen, Herbstkleidung Kinder, Amazon Finds Kinder.</p></div></a></div><section class="cta"><div><h2>Nebenbei Geld verdienen als Mama, anfangs ganz ohne dein Gesicht zu zeigen</h2><p>Schöne Dinge finden, als Listen teilen und Provision bekommen, wenn jemand darüber kauft. Das ist mein Modell, und es läuft in den Stunden, in denen die Kinder schlafen. Ich habe damit über ein Programm angefangen, das mir Schritt für Schritt gezeigt hat, wie Pinterest, Amazon und Instagram zusammenspielen. Im kostenlosen Gespräch erkläre ich dir, wie es funktioniert, was es kostet und ob es zu deiner Situation passt. Kein Druck, keine Versprechen über Summen.</p><small>Anzeige | Ich vermittle das Programm als Vertriebspartnerin. Anbieter ist BKM Marketing FZCO.</small></div><a class="btn" href="https://www.the-femalesoul.de/start/" target="_blank" rel="noopener">Kostenloses Gespräch sichern →</a></section><footer>Anzeige | Diese Seite enthält Amazon-Partnerlinks. Als Amazon-Partnerin verdiene ich an qualifizierten Käufen, für dich ändert sich der Preis nicht. Preise Stand 23.10.2026, aktuelle Preise bei Amazon.
 <br><a href="impressum.html">Impressum</a> · <a href="datenschutz.html">Datenschutz</a></footer></div></body></html>
